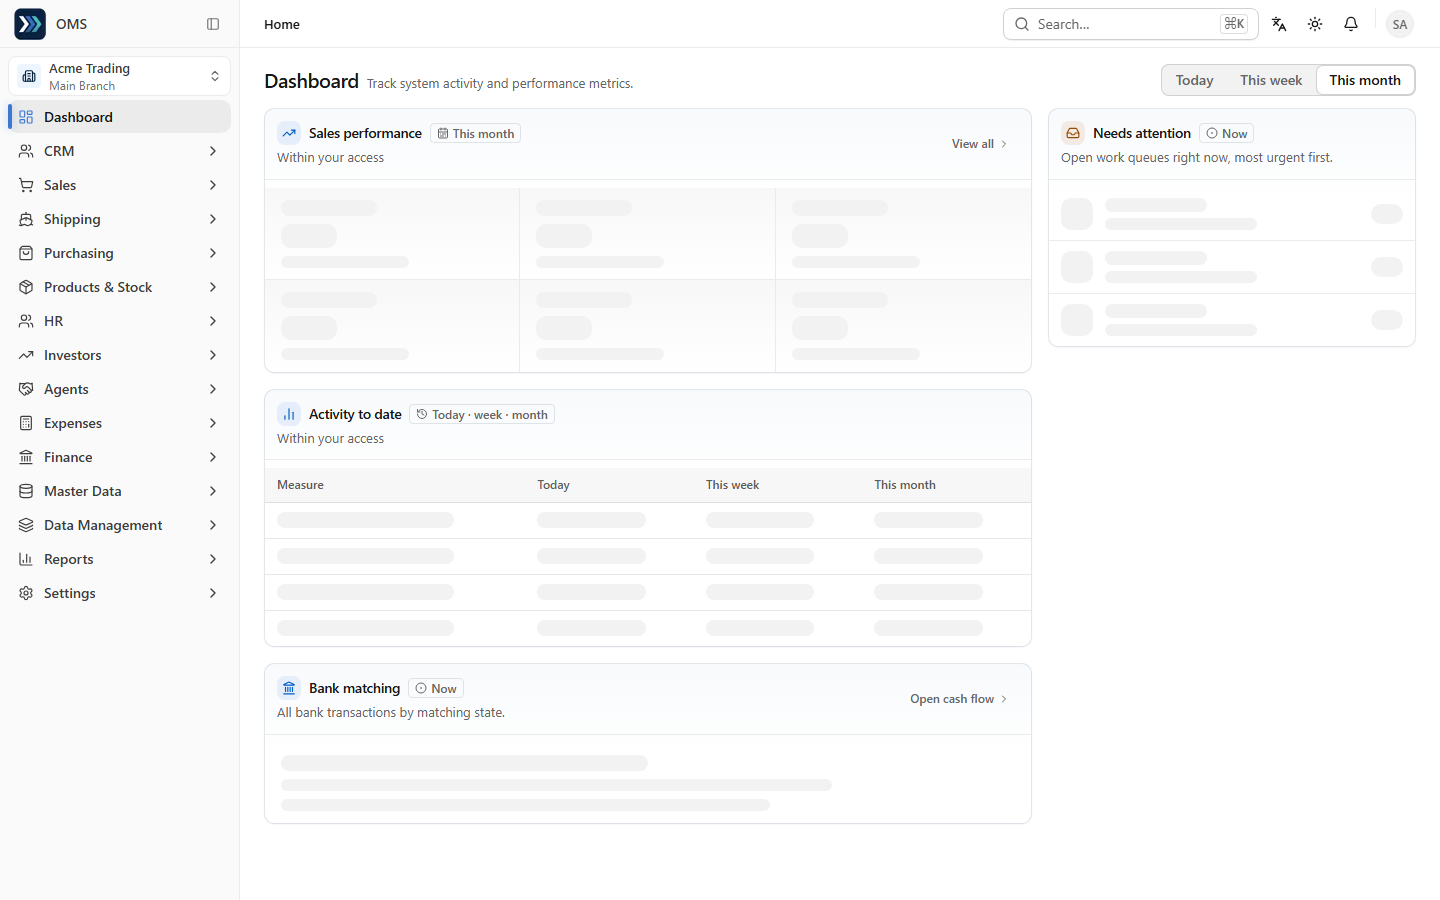
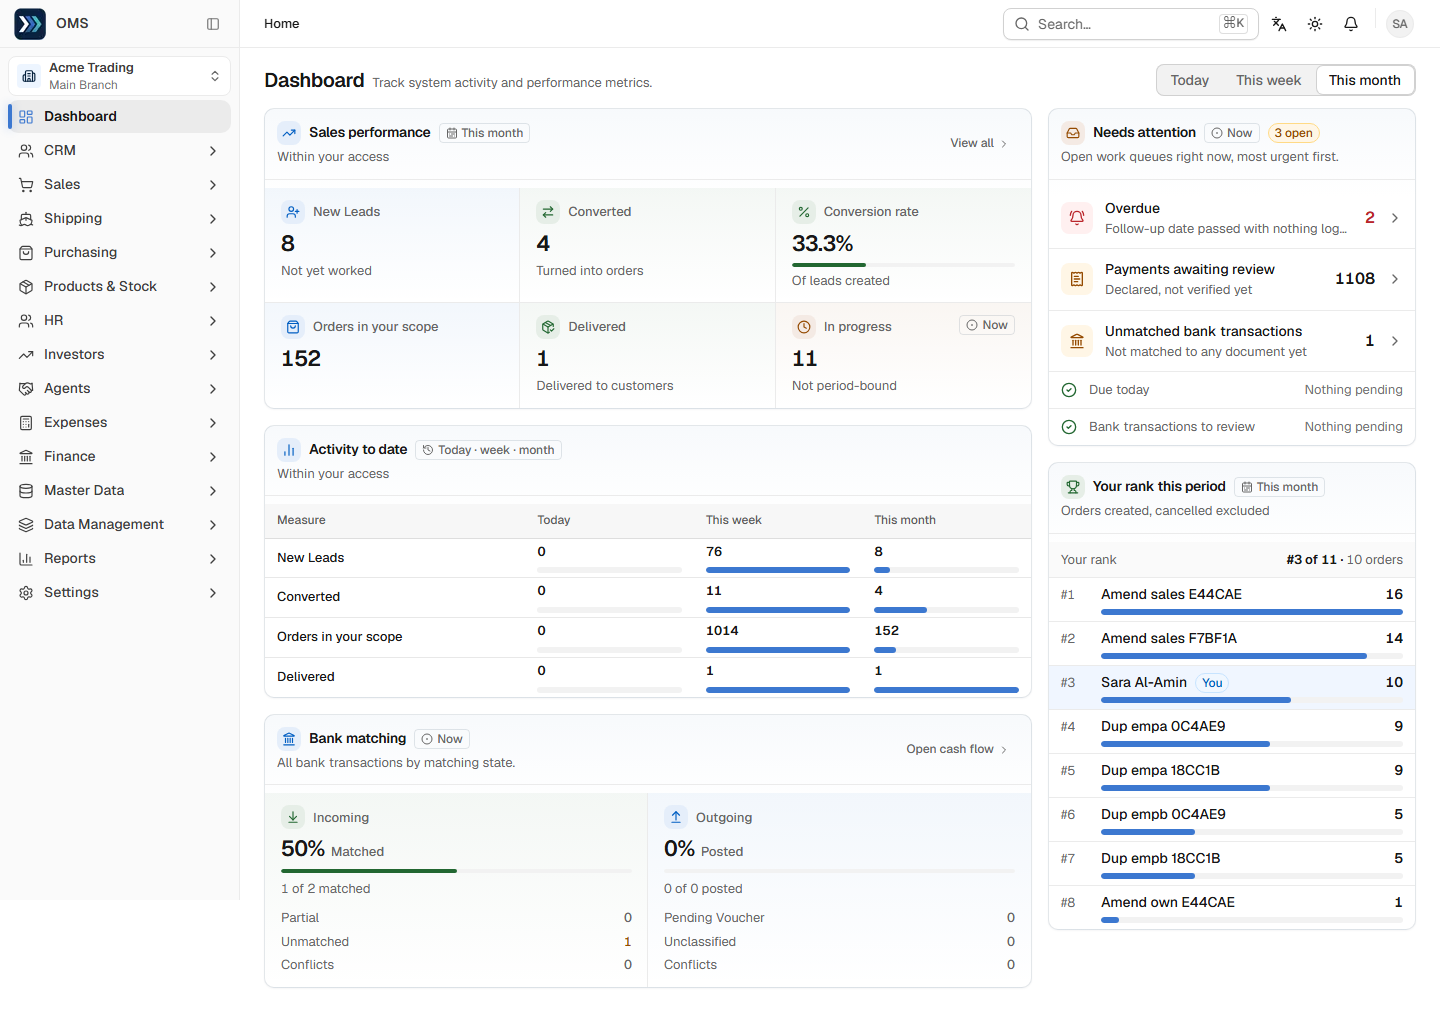
docs(r6-visual): re-capture company dashboard and trial balance once loaded; interactive states
Load-guarded capture (content present, no skeleton/aria-busy/loading text,
stable 1.5s); trial balance with a dated range, expanded + collapsed; hover
and focus-visible for attention rows and a trial-B trigger.

diff --git a/docs/user-guide/evidence/r6-visual-20261001/README.md b/docs/user-guide/evidence/r6-visual-20261001/README.md
@@ -1,9 +1,20 @@
 # Round 6 visual (workstream E) — evidence, 2026-10-01
 
 Branch `feat/r6-visual` (= `feat/r5-visual` + `main`). Local preview only, waiting for owner approval.
-Captured with Playwright (`tmp/r6/shots.mjs`) on the local API :3605 and web :3601. The DB is
+Captured with Playwright (`tmp/r6/shots.mjs`; the company dashboard, report and interactive shots
+were re-taken on 2026-10-03 with `tmp/r6/shots2.mjs`) on the local API :3605 and web :3601. The DB is
 `oms_r6_visual`, a clone of dev. Reduced motion is on, the Next dev badge is hidden, and the
 viewport is 1440 or 390 wide.
+
+**Load guard (re-take).** The first capture of the company dashboard and the report saved
+skeletons. It waited a fixed 1.2s, and `/auth/me` alone takes about 2s under `next dev`. The
+endpoints themselves are fast on `oms_r6_visual`: each `/sales/performance` period, the payment
+counts and the bank counts answer in 0.1–0.5s, and the trial balance in about 0.2s. No API errors
+were logged. The re-take waits for three things, and otherwise fails instead of saving:
+
+- the page's own content (sales figures or report rows)
+- no `[data-slot="skeleton"]`, no `aria-busy`, and no «جارٍ التحميل» / "Loading…" text
+- the same condition still true 1.5s later
 
 **Before** comes from `main` @ `901e075`, served from a temporary `git worktree` against the same
 API and data, which was removed afterwards. **After** comes from this branch.
@@ -25,12 +36,14 @@ All four users are tagged `DEMO-R6-20261001`. They share one password, kept in
 Names follow `<phase>-<subject>-<locale>-<theme>[-<width>].png`, where locale is `ar` (RTL) or
 `en` (LTR) and theme is `light` or `dark`.
 
-| Subject                                                        | Before                                    | After                                    |
-| -------------------------------------------------------------- | ----------------------------------------- | ---------------------------------------- |
-| Company dashboard (1440 + 390)                                 | `before-company-dashboard-*`              | `after-company-dashboard-*`              |
-| Agent Admin dashboard (1440 + 390)                             | `before-agent-admin-dashboard-*`          | `after-agent-admin-dashboard-*`          |
-| Agent Sales dashboard (1440 + 390)                             | `before-agent-sales-dashboard-*`          | `after-agent-sales-dashboard-*`          |
-| Financial report, trial balance, expanded (1440, first screen) | `before-financial-report-trial-balance-*` | `after-financial-report-trial-balance-*` |
+| Subject                                                                                    | Before                                             | After                                              |
+| ------------------------------------------------------------------------------------------ | -------------------------------------------------- | -------------------------------------------------- |
+| Company dashboard (1440 + 390)                                                             | `before-company-dashboard-*`                       | `after-company-dashboard-*`                        |
+| Agent Admin dashboard (1440 + 390)                                                         | `before-agent-admin-dashboard-*`                   | `after-agent-admin-dashboard-*`                    |
+| Agent Sales dashboard (1440 + 390)                                                         | `before-agent-sales-dashboard-*`                   | `after-agent-sales-dashboard-*`                    |
+| Trial balance, 01 Jan – 01 Oct 2026, summary expanded (1440, first screen)                 | `before-financial-report-trial-balance-expanded-*` | `after-financial-report-trial-balance-expanded-*`  |
+| Same report, summary collapsed (after only; `main` has no collapse)                        | —                                                  | `after-financial-report-trial-balance-collapsed-*` |
+| Dashboard interactive rows (Needs attention): hover and keyboard focus, AR light + EN dark | —                                                  | `after-interactive-attention-{hover,focus}-*`      |
 
 ### Dropdown trial
 
@@ -52,8 +65,11 @@ The control-states board shows these states:
 - an unset filter, an applied filter and an applied filter with a count
 - the primary, success, outline and destructive buttons next to them
 
-Hover, pressed and focus-visible are live on the board. They are implemented in
-`theme/trigger-trial.css`, but no screenshot captures them.
+Hover and focus-visible are captured for trial B on the board's selected-value trigger, in AR light
+and EN dark: `trial-b-interactive-{hover,focus}-*`. Pressed is live on the board but not captured.
+
+Metric tiles are static by design, so they have no hover. The interactive rows on the dashboard
+are the Needs-attention queues, shown in the interactive dashboard shots.
 
 ## How to run the trial locally
 
